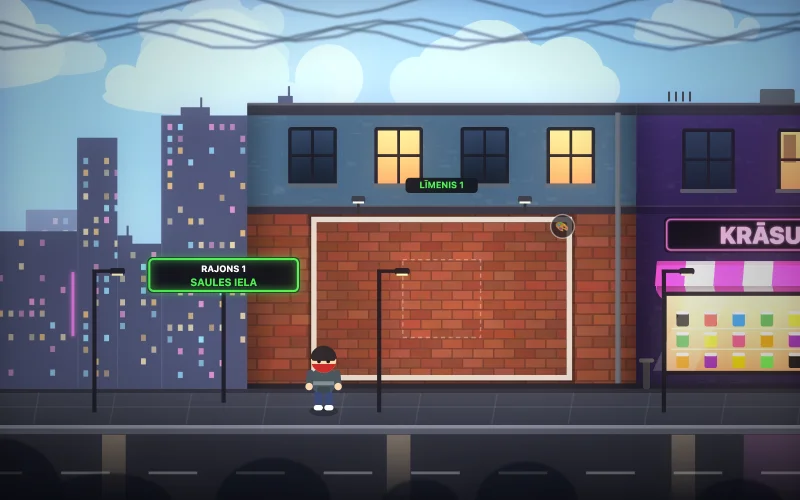
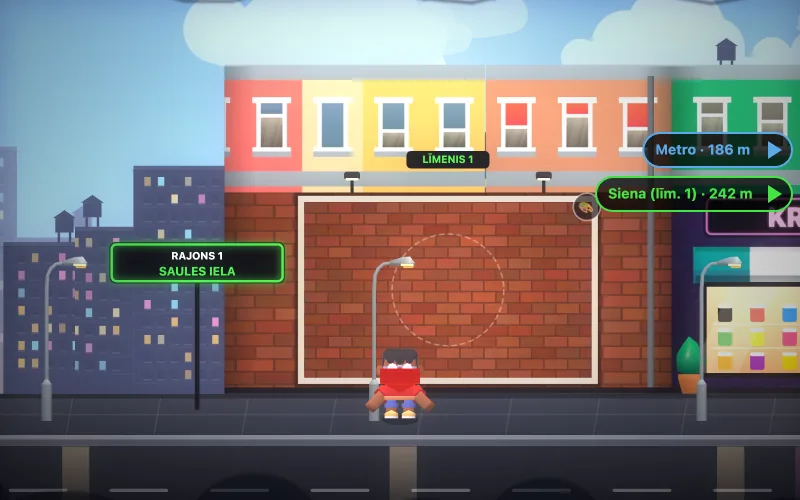
Graffiti: instrukcijas kadri 1, 3, 4 no jaunās KayKit pilsētas (?v=2), sākumlapas kartītes bilde cover.webp (800×500, spēlētājs smidzina sienu); game.js?v=18

diff --git a/grafiti/game.js b/grafiti/game.js
@@ -1857,10 +1857,10 @@ updateHud();
 // ---- Pirmās spēles instrukcija (1–2 teikumi par katru funkciju) ----
 // Instrukcija pirms spēles – kopīgais logs TW.intro (tw-common.js): 4 īsti kadri no spēles + daži vārdi.
 const INTRO=[
-  {img:'intro/1.webp',t:'Tap a wall – paint! 🎨'},
-  {img:'intro/2.webp',t:'Trace the shape exactly ✏'},
-  {img:'intro/3.webp',t:'Watch out for police 🚓 – hide!'},
-  {img:'intro/4.webp',t:'Buy paint and eat 🍔'},
+  {img:'intro/1.webp?v=2',t:'Tap a wall – paint! 🎨'},
+  {img:'intro/2.webp?v=2',t:'Trace the shape exactly ✏'},
+  {img:'intro/3.webp?v=2',t:'Watch out for police 🚓 – hide!'},
+  {img:'intro/4.webp?v=2',t:'Buy paint and eat 🍔'},
 ];
 const showIntro=force=>window.TW&&TW.intro?TW.intro('grafiti',INTRO,force,{i18n:true}):Promise.resolve();
 document.getElementById('pzHelp').onclick=()=>{ pauseOv.classList.remove('on'); showIntro(true).then(openPauseAgain); };

diff --git a/grafiti/index.html b/grafiti/index.html
@@ -70,6 +70,6 @@
   <div class="rgt"><button id="tS" class="tsmall">🙈<small>Hide</small></button><button data-k="w">⤒</button><button id="tAct" class="ctx"><span id="tActI">✋</span><small id="tActL"></small></button></div>
 </div>
 
-<script src="game.js?v=17"></script>
+<script src="game.js?v=18"></script>
 </body>
 </html>

diff --git a/CLAUDE.md b/CLAUDE.md
@@ -33,7 +33,7 @@ Mini spēļu vietne https://tailersworld.lv (GitHub Pages, repo `RihardsABerzins
 - `grafiti/` – Graffiti RPG. Kods raksta tekstus angliski; valodas slānis (skripts `<head>` sākumā, `PHRASES`/`WORDS`) pārtulko visu redzamo latviski. Noklusējums – latviešu; iestatījumos LV/EN slēdzis (localStorage `twLang`). Jaunam tekstam pievieno tulkojumu `PHRASES` sarakstā.
 
 ## Instrukcija spēlē
-- Graffiti pirms spēles – `TW.intro('grafiti', INTRO)` (game.js): 4 īsti kadri no spēles `grafiti/intro/1..4.webp` (800×500, 15–32 KB) ar 3–5 vārdiem (EN kodā, LV – `PHRASES`); spēle stāv pauzē, līdz aizver. Pauzē „❓ Kā spēlēt” atver to pašu logu (`force`). Pēc tam pirmajā reizē – mācības darot (`GUIDE`: bultiņa uz sienu → Zīmēt → apvelc → padomi), dzeltens baneris, atzīme `grafitiTut`.
+- Graffiti pirms spēles – `TW.intro('grafiti', INTRO)` (game.js): 4 īsti kadri no spēles `grafiti/intro/1..4.webp?v=2` (800×500, KayKit pilsēta; 2 – zīmēšanas logs) ar 3–5 vārdiem (EN kodā, LV – `PHRASES`); spēle stāv pauzē, līdz aizver. Pauzē „❓ Kā spēlēt” atver to pašu logu (`force`). Pēc tam pirmajā reizē – mācības darot (`GUIDE`: bultiņa uz sienu → Zīmēt → apvelc → padomi), dzeltens baneris, atzīme `grafitiTut`.
 - **Graffiti minikarte** – `drawMinimap()` game.js (vecās punktu ielas joslas vietā): Kenney „Minimap Pack” flīzes (CC0, `grafiti/minimap/tiles.png` = stils **E** silts, licence `minimap/License.txt`). Viena kolonna = viens pilsētas gabals; X – brīva siena, zaļš punkts – žūst, pelēks – slēgta, S rozā – krāsu depo, S oranžs – kafejnīca/pica, S balts – cits veikals, zils – metro, galvaskauss – policija (mirgo), dzeltens kvadrāts – spēlētājs, zaļi punkti apakšā – slēptuves. Flīze 12 px telefonā / 16 px planšetē (veseli ierīces pikseļi), rāda ~25–30 gabalus ap spēlētāju un slīd līdzi (pilsētā ~38). Novietojas virs apakšējām pogām, ko pārklātu (`mmBottom`: skārienpogas, ⚙, pilnekrāns; pārbauda 1×/s). Metro iekšā nerāda.
 - **Graffiti tēli un mašīnas** – 3D modeļi iecepti 2D sprite (`grafiti/sprites/`, kredīti `CREDITS.txt` + licences): **spēlētāji** (arī citi tiešsaistē) – Kenney Mini Characters (CC0, 13 tēli, `chars.webp` 128×172 kadri: 0–7 iet, 8 stāv, 9 lec, 10 sēž, 11 priekša, 12–13 mugura ar baloniņu, 14 tupstas); `chars_m.webp` maskas (R jaka, G bikses, B mati) – `sprRow()` tonē pēc izskata un kešo; `chars_k.webp` – lakats (pašu kaste pie galvas kaula: no deguna līdz zodam, trīsstūra gals, aizmugurē mezgls), tonē ar maskas krāsu. **Fona gājēji un policists** – Quaternius Posed Background Characters (CC0, `people.webp` 96×172: 16 gājēji + policists ar cepuri; kadri solis/stāv/otrs solis/priekša/skatās augšup/rokas sānos) – `drawPeople()`, `npc.bg`. **Mašīnas** – Kenney Car Kit (CC0, `cars.webp` 384×240, 11 modeļi; satiksme `TRAFFIC_M`, policija `police`, pērkamās `CAR_MODEL`). Frizētavā: Tēls (12, bez policista), jaka, matu krāsa, bikses (`orig` = modeļa krāsa), maska. Ja sprites nav ielādētas – vecie zīmētie tēli (`drawPerson`). Cepšanas lapas (three.js) bija tikai darba mapē, repozitorijā nav. Skrituļdēlis/skrejritenis – joprojām zīmēti. **Asums (v13):** spēle lieto `grafiti/sprites/hd/` – katram tēlam `<id>.webp` (15 kadri 256×344) + `<id>_m.webp` (augšā maska, apakšā lakats), ielādē tikai vajadzīgos (`sprReady`), tonētās rindas kešā ≤6; `people.webp` 144×258 (2 gājēji rindā), `cars.webp` 576×360 (2 kolonnas), `thumbs.webp` frizētavai; zīmē samazinot ar `imageSmoothingQuality='high'`. Vecie `sprites/chars*.webp` (128×172) paliek – tos lieto Ātrās palīdzības mediķis (`atra-palidziba/treat.js`).
 - **Graffiti pilsēta KayKit stilā** – `sprites/kk/atlas.webp` (1540×2066, ~100 KB; rects `KK.R` game.js; iecepts no KayKit 3D ortogrāfiski 2×): `up_B..H` māju augšējie stāvi (`kkFacade` – visām mājām virs pirmā stāva, y T-14..210), `awn_E/H/A/G` markīzes (`kkAwning`: kafejnīca/picērija/krāsu depo/citi), `door`, `dumpster` (sienu slēptuve tajā pašā vietā), `crate`/`crate_buns` (veikalu slēptuve), `streetlight` (spoguļota; gaismas konuss +6 px – `LAMPO`), `bench`/`firehydrant`/`bush` pie veikaliem, `tree1/3` starp divām sienām (ne pie slēptuves), mašīnas `kk:car_*` (satiksme + policija; Kenney kravas mašīnām KayKit nav). Zīmēšanas siena (ķieģeļi, panelis), durvju/logu/izkārtņu vietas un loģika nemainās. Kamēr atlants nav ielādēts – vecais zīmējums (`KK.ok`), pēc ielādes `l.img=null` → pārzīmē. Tālās mājas (`makeSkyline`) – plakani jumti ar malu, ūdenstorņi, regulāri logi. Metro ieeja – sava.
